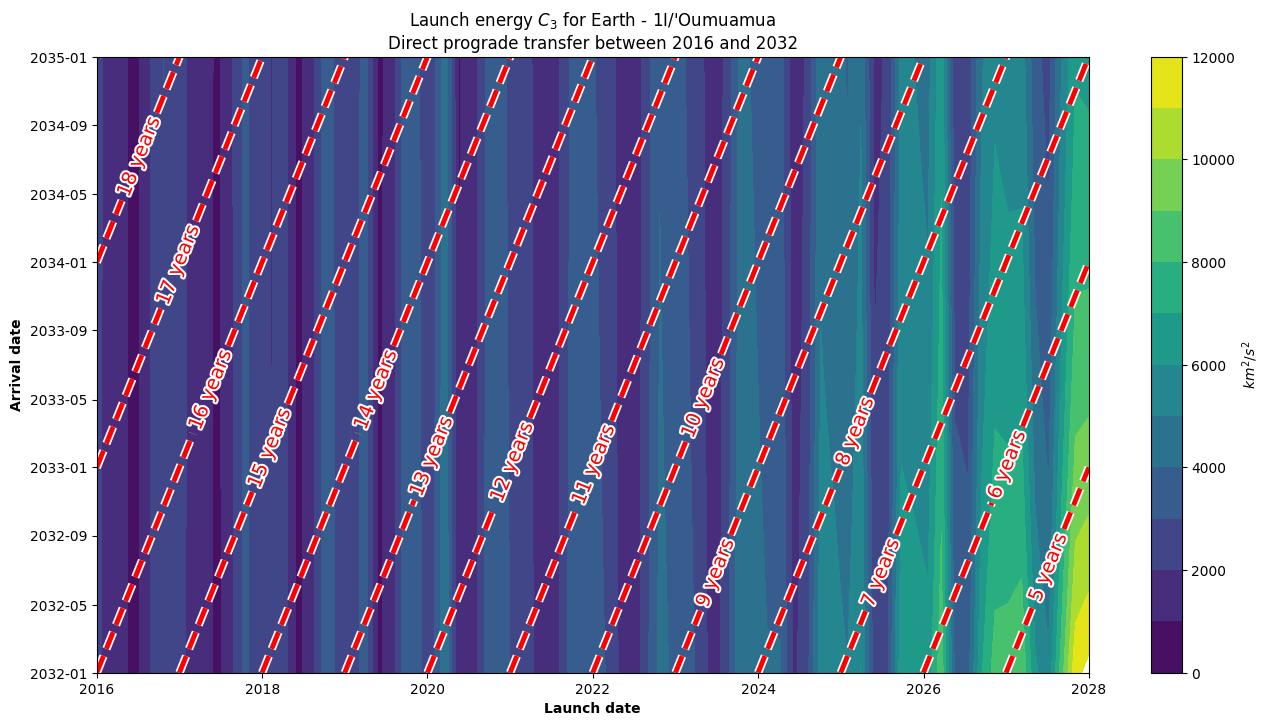
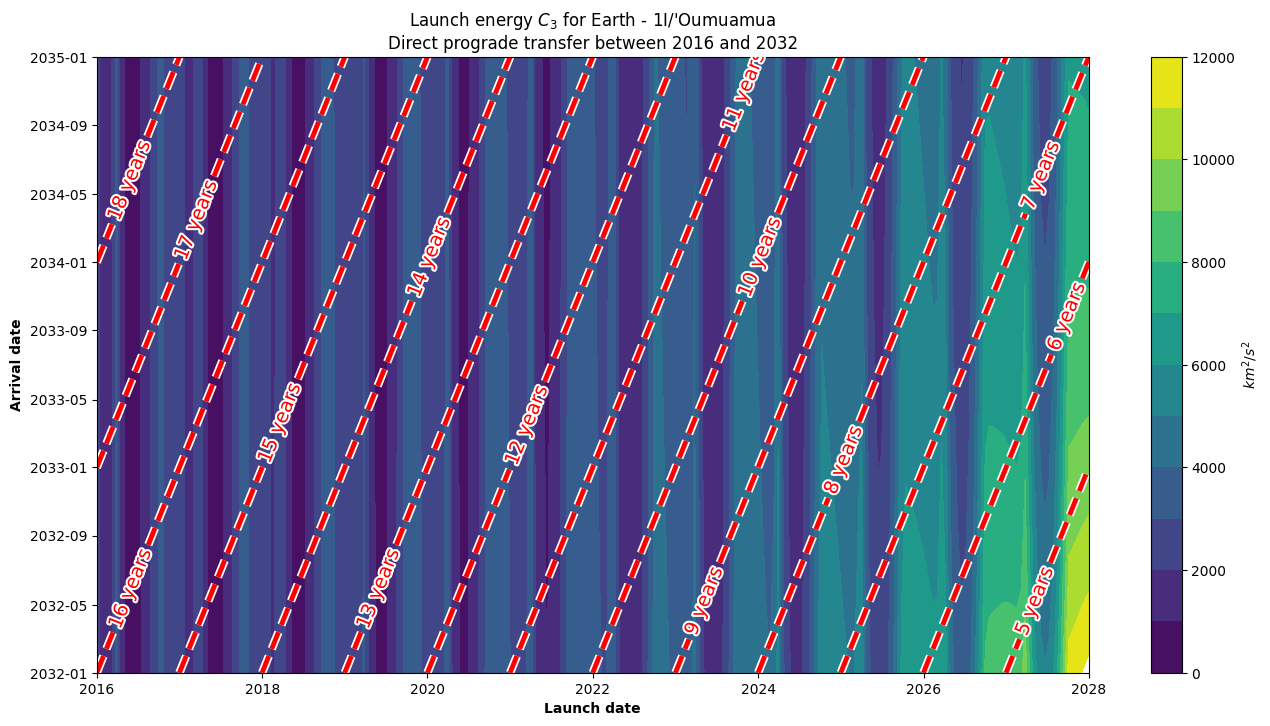
feat: improve figures

diff --git a/bin/borisov_porkchop.py b/bin/borisov_porkchop.py
@@ -11,15 +11,23 @@ from poliastro.util import time_range
 
 
 def solve_porkchop(prograde):
-    N = 75
-    launch_span = time_range("2016-01-01", end="2028-01-01", num_values=N, scale="tdb")
-    arrival_span = time_range("2032-01-01", end="2035-01-01", num_values=N, scale="tdb")
+    min_launch_date = Time("2016-01-01", scale="tdb")
+    max_launch_date = Time("2028-01-01", scale="tdb")
+    min_arrival_date = Time("2032-01-01", scale="tdb")
+    max_arrival_date = Time("2035-01-01", scale="tdb")
 
-    borisov_ephem = Ephem.from_horizons("C/2019 Q4", launch_span)
-    borisov = Orbit.from_ephem(Sun, borisov_ephem, Time("2016-01-01", scale="tdb"))
+    launch_span = time_range(min_launch_date, spacing=1*u.day, end=max_launch_date, scale="tdb")
+    arrival_span = time_range(min_arrival_date, spacing=1*u.day, end=max_arrival_date, scale="tdb")
+    epochs = time_range(min_launch_date, spacing=1*u.day, end=max_arrival_date, scale="tdb")
+
+
+    earth = Ephem.from_body(Earth, epochs=epochs)
+    borisov = Ephem.from_horizons("C/2019 Q4", epochs={'start': "2016-01-01",
+                                                    'stop': '2053-01-01',
+                                                    'step': '1d'})
 
     return PorkchopPlotter(
-        Earth, borisov, launch_span, arrival_span, prograde=prograde
+        earth, borisov, launch_span, arrival_span, prograde=prograde
     )
 
 def solve_launch_energy():
@@ -38,6 +46,7 @@ def solve_launch_energy():
         )
         porkchop.ax.set_title(f"Launch energy $C_3$ for Earth - 2I/Borisov\nDirect {inclination} transfer between 2016 and 2032")
         plt.savefig(f"fig/static/borisov/direct-{inclination}-transfer-porkchop.png", bbox_inches="tight")
+        porkchop.show()
 
 def solve_launch_velocity():
     for prograde in [True, False]:
@@ -61,5 +70,6 @@ def solve_launch_velocity():
         plt.savefig(f"fig/static/borisov/direct-{inclination}-transfer-porkchop-avl.png", bbox_inches="tight")
 
 if __name__ == "__main__":
-    #solve_launch_energy()
-    solve_launch_velocity()
+    solve_porkchop(prograde=True)
+    solve_launch_energy()
+    #solve_launch_velocity()

diff --git a/src/03_direct/optimum_transfer.tex b/src/03_direct/optimum_transfer.tex
@@ -18,7 +18,7 @@ for which the $C_3$ energy is minimized. Table \ref{tab:direct-transfer-optimum}
 collects the values for the launch and arrival dates, and the
 characteristic energy for the most optimum transfer.
 
-\section{'Oumuamua}
+\subsection{'Oumuamua}
 
 Among the prograde and retrogade direct transfers, the most optimum transfer is
 contained in the set of prograde orbits. Analyzing figure
@@ -73,14 +73,36 @@ presented in this work expands previous article by covering the retrograde case
 and providing the optimum solution.
 
 Despite having found and optimum solution, the value of $C_3 = 720.28$
-km$^2$/s$^2$ is still a high for orbit transfers.
+km$^2$/s$^2$ is still a high value for orbit transfers.
 
-\section{Borisov}
+\subsection{Borisov}
 
 Regarding Borisov, the most optimum transfer is also a prograde transfer. The
 analysis of figure \ref{fig:borisov-direct-prograde-transfer-porkchop} shows
 that the lowest characteristic energy is the one collected in table
 \ref{tab:borisov-direct-transfer-optimum}.
+
+Previously found literature shows that \cite{hibberd2021} analyzed the direct
+transfer to the interloper, where he states that the optimum transfer happens 
+
+Impulses for this maneuver are described in table
+\ref{tab:borisov-direct-transfer-impulses}. Total cost is $36.95$ km/s.
+
+\begin{table}[H]
+  \centering
+  \begin{tabular}{|c|c|c|c|}
+    \hline
+    Impulse & $\Delta v_x$ [km/s] & $\Delta v_y$ [km/s] & $\Delta v_z$ [km/s] \\
+    \hline
+    Launch & -11.92 & 3.69 & -25.73 \\
+    \hline
+    Arrival & 0.58 & -5.37 & -6.37 \\
+    \hline
+  \end{tabular}
+  \caption{Impulses required for the optimum transfer between Earth and 2I/Borisov.}
+  \label{tab:borisov-direct-transfer-impulses}
+\end{table}
+
 
 \vspace{1cm}
 \begin{table}[H]

diff --git a/bin/oumuamua_porkchop.py b/bin/oumuamua_porkchop.py
@@ -5,21 +5,27 @@ import numpy as np
 
 from poliastro.bodies import Earth, Sun
 from poliastro.ephem import Ephem
+from poliastro.frames import Planes
 from poliastro.twobody import Orbit
 from poliastro.plotting.porkchop import PorkchopPlotter
 from poliastro.util import time_range
 
 
 def solve_porkchop(prograde=True):
-    N = 75
+    # Declare the launch and arrival spans
+    #launch_span = time_range("2016-01-01", spacing=1*u.day, end="2028-01-01", scale="tdb")
+    #arrival_span = time_range("2032-01-01", spacing=1*u.day, end="2035-01-01", scale="tdb")
+    N = 250
     launch_span = time_range("2016-01-01", end="2028-01-01", num_values=N, scale="tdb")
     arrival_span = time_range("2032-01-01", end="2035-01-01", num_values=N, scale="tdb")
 
-    oumuamua_ephem = Ephem.from_horizons("'Oumuamua", launch_span)
-    oumuamua = Orbit.from_ephem(Sun, oumuamua_ephem, Time("2016-01-01", scale="tdb"))
+    # Load the ephemerides for the Earth and 'Oumuamua
+    earth = Ephem.from_csv("bin/ephem/earth.csv", plane=Planes.EARTH_ECLIPTIC)
+    oumuamua = Ephem.from_csv("bin/ephem/oumuamua.csv", plane=Planes.EARTH_ECLIPTIC)
 
+    # Compute the porkchop plot
     return PorkchopPlotter(
-        Earth, oumuamua, launch_span, arrival_span, prograde=prograde
+        earth, oumuamua, launch_span, arrival_span, prograde=prograde
     )
 
 def solve_launch_energy():
@@ -38,6 +44,7 @@ def solve_launch_energy():
         )
         porkchop.ax.set_title(f"Launch energy $C_3$ for Earth - 1I/'Oumuamua\nDirect {inclination} transfer between 2016 and 2032")
         plt.savefig(f"fig/static/oumuamua/direct-{inclination}-transfer-porkchop.png", bbox_inches="tight")
+        #plt.show()
 
 def solve_arrival_velocity():
     for prograde in [True, False]:

diff --git a/bin/borisov_direct_transfer_opt.py b/bin/borisov_direct_transfer_opt.py
@@ -14,8 +14,8 @@ from matplotlib import pyplot as plt
 
 # Compute ephemeris
 epochs = time_range("2016-02-29", end="2032-01-01", scale="tdb")
-earth_ephem = Ephem.from_body(Earth, epochs=epochs)
-borisov_ephem = Ephem.from_horizons("C/2019 Q4", epochs)
+earth_ephem = Ephem.from_body(Earth, epochs={'start': '2016-02-29', 'end': '2032-01-01', 'step': '1d'})
+borisov_ephem = Ephem.from_body("C/2019 Q4", epochs={'start': '2016-02-29', 'end': '2032-01-01', 'step': '1d'})
 
 # Declare launch and arrival dates
 launch_date = Time("2016-02-29", scale="tdb")
